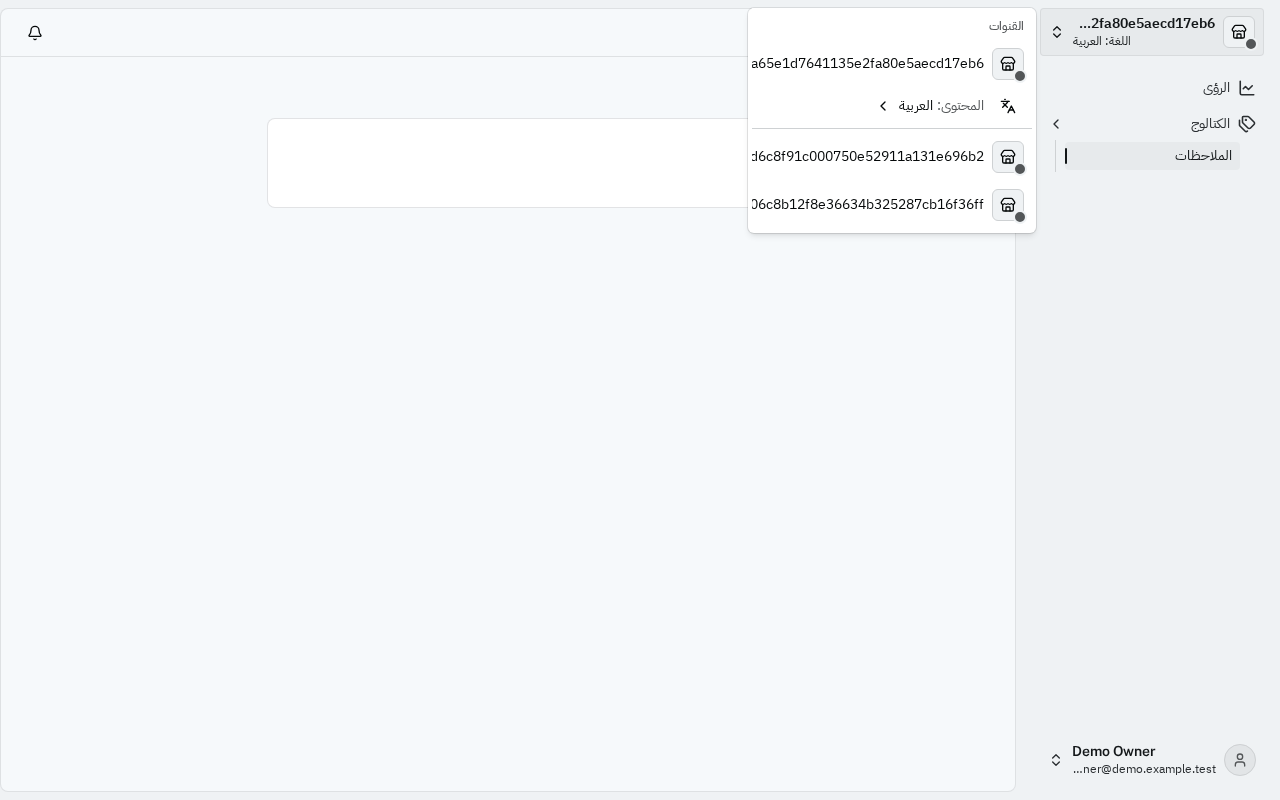
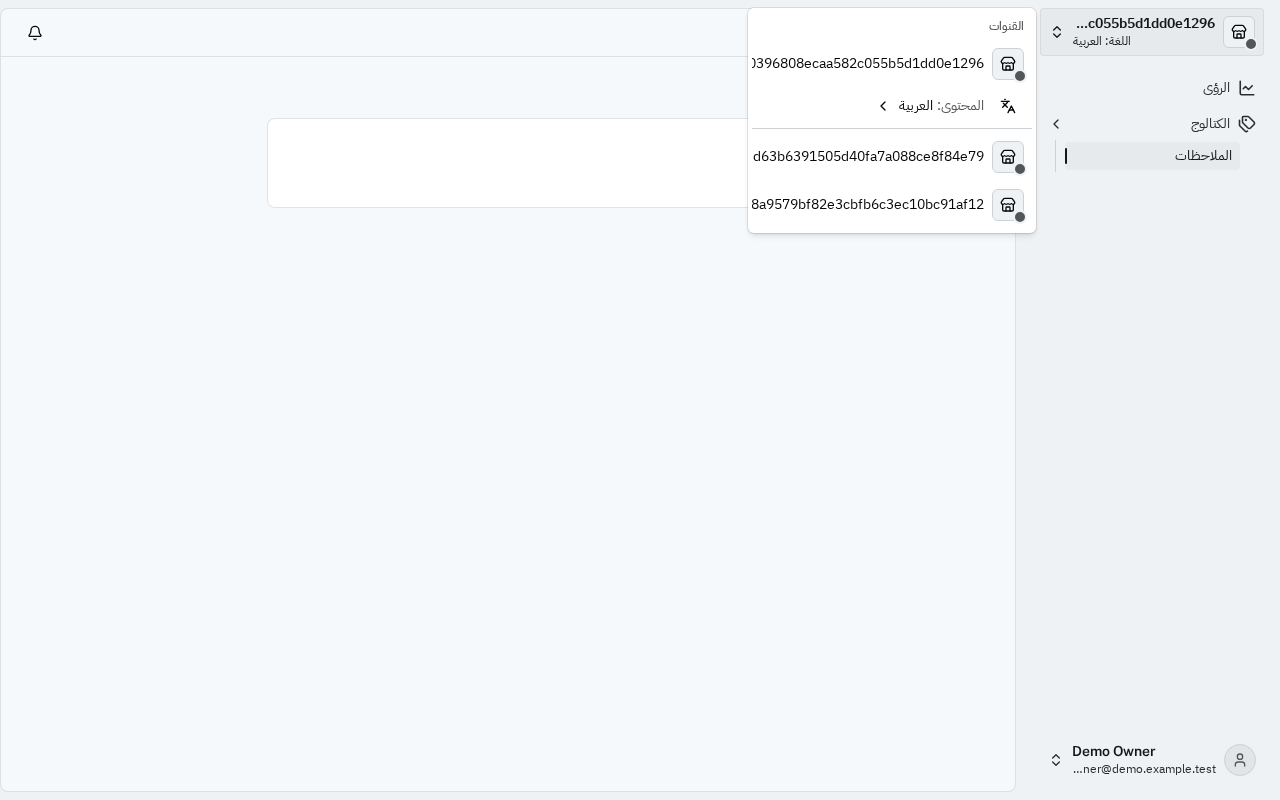
chore(tenancy): regenerate evidence from a full image build

diff --git a/docs/evidence/P1.S1/README.md b/docs/evidence/P1.S1/README.md
@@ -2,7 +2,7 @@
 
 Transcripts and screenshots from a live stack (CLAUDE.md §3a.14), produced by `scripts/evidence/P1.S1.sh`. Data is synthetic
 (demo seed, placeholders from `.env.example`). Image built from a tree with no uncommitted change outside the evidence
-folders, last image-relevant commit `833fada845a545540a486ed31800e40865efdd1f`. Compose project `cod-evidence`, with a second api container on port 23101.
+folders, last image-relevant commit `4886c38e29da1a17d51a73550f232b970bfcb23a`. Compose project `cod-evidence`, with a second api container on port 23101.
 The demo seed ran twice; the second run created nothing.
 
 ## API transcripts
@@ -58,5 +58,7 @@ Dashboard, signed in as the demo owner on the Arabic store:
 | `dashboard-content-language-ar-desktop.png` | Switcher open in Arabic: content language row reads "المحتوى: العربية", which is the D7 result. **Flags:** three channels listed by hex code, cut off at the menu's left edge; the third is the store archived earlier in this run, so an archived store stays in the owner's switcher. |
 
 No error, alert or toast on any dashboard shot. No third-party name on any of these shots. The dashboard's login page, which carries the licence-required footer (ADR 0001), is not among them. The notes bodies "evidence" are the synthetic data of the script, not an untranslated UI string.
+
+The hex channel code and the archived store in the switcher are deferred to P1.S5, which owns the switcher.
 
 Outside the shots, on a host-run api with the same owner: the landing page (Insights, an empty widget message in Arabic) and the merchant shell render with no alert or toast. The only refused query after sign-in is the dashboard's own `channels` (A1), which falls back to the owner's channels from `me`.

diff --git a/docs/evidence/P1.S1/api/resolve.md b/docs/evidence/P1.S1/api/resolve.md
@@ -1,6 +1,6 @@
 # Store resolution (public REST)
 
-What the storefront asks on each request. Only public fields leave; an unknown host is a <ADMIN_C_ID>0<ADMIN_C_ID>, never a 500.
+What the storefront asks on each request. Only public fields leave; an unknown host is a 404, never a 500.
 
 ### resolve demo.localhost
 
@@ -45,13 +45,13 @@ content-type: application/json; charset=utf-8
 ```http
 GET http://127.0.0.1:23100/store/resolve?host=nope.localhost
 
-HTTP/1.1 <ADMIN_C_ID>0<ADMIN_C_ID> Not Found
+HTTP/1.1 404 Not Found
 content-type: application/json; charset=utf-8
 
 {
-  "statusCode": <ADMIN_C_ID>0<ADMIN_C_ID>,
+  "statusCode": 404,
   "message": "Not Found",
-  "timestamp": "2026-11-08T23:0<ADMIN_C_ID>:13.929Z",
+  "timestamp": "2026-11-08T23:33:09.992Z",
   "path": "/store/resolve?host=nope.localhost"
 }
 ```
@@ -80,13 +80,13 @@ content-type: application/json; charset=utf-8
 ```http
 GET http://127.0.0.1:23100/store/by-id/1
 
-HTTP/1.1 <ADMIN_C_ID>0<ADMIN_C_ID> Not Found
+HTTP/1.1 404 Not Found
 content-type: application/json; charset=utf-8
 
 {
-  "statusCode": <ADMIN_C_ID>0<ADMIN_C_ID>,
+  "statusCode": 404,
   "message": "Not Found",
-  "timestamp": "2026-11-08T23:0<ADMIN_C_ID>:1<ADMIN_C_ID>.059Z",
+  "timestamp": "2026-11-08T23:33:10.170Z",
   "path": "/store/by-id/1"
 }
 ```

diff --git a/docs/evidence/P1.S1/api/subdomain-change.md b/docs/evidence/P1.S1/api/subdomain-change.md
@@ -76,13 +76,13 @@ content-type: application/json; charset=utf-8
 ```http
 GET http://127.0.0.1:23100/store/resolve?host=demo2.localhost
 
-HTTP/1.1 <ADMIN_C_ID>0<ADMIN_C_ID> Not Found
+HTTP/1.1 404 Not Found
 content-type: application/json; charset=utf-8
 
 {
-  "statusCode": <ADMIN_C_ID>0<ADMIN_C_ID>,
+  "statusCode": 404,
   "message": "Not Found",
-  "timestamp": "2026-11-08T23:0<ADMIN_C_ID>:17.280Z",
+  "timestamp": "2026-11-08T23:33:13.228Z",
   "path": "/store/resolve?host=demo2.localhost"
 }
 ```
@@ -111,13 +111,13 @@ content-type: application/json; charset=utf-8
 ```http
 GET http://127.0.0.1:23101/store/resolve?host=demo2.localhost
 
-HTTP/1.1 <ADMIN_C_ID>0<ADMIN_C_ID> Not Found
+HTTP/1.1 404 Not Found
 content-type: application/json; charset=utf-8
 
 {
-  "statusCode": <ADMIN_C_ID>0<ADMIN_C_ID>,
+  "statusCode": 404,
   "message": "Not Found",
-  "timestamp": "2026-11-08T23:0<ADMIN_C_ID>:17.<ADMIN_C_ID>35Z",
+  "timestamp": "2026-11-08T23:33:13.381Z",
   "path": "/store/resolve?host=demo2.localhost"
 }
 ```

diff --git a/docs/evidence/P1.S1/api/stores.md b/docs/evidence/P1.S1/api/stores.md
@@ -157,7 +157,7 @@ content-type: application/json; charset=utf-8
       "locations": [
         {
           "line": 1,
-          "column": <ADMIN_C_ID>0
+          "column": 40
         }
       ],
       "path": [
@@ -247,13 +247,13 @@ content-type: application/json; charset=utf-8
 ```http
 GET http://127.0.0.1:23100/store/resolve?host=demo3.localhost
 
-HTTP/1.1 <ADMIN_C_ID>0<ADMIN_C_ID> Not Found
+HTTP/1.1 404 Not Found
 content-type: application/json; charset=utf-8
 
 {
-  "statusCode": <ADMIN_C_ID>0<ADMIN_C_ID>,
+  "statusCode": 404,
   "message": "Not Found",
-  "timestamp": "2026-11-08T23:0<ADMIN_C_ID>:12.893Z",
+  "timestamp": "2026-11-08T23:33:09.114Z",
   "path": "/store/resolve?host=demo3.localhost"
 }
 ```

diff --git a/scripts/evidence/P1.S1-seen.md b/scripts/evidence/P1.S1-seen.md
@@ -13,4 +13,6 @@
 
 No error, alert or toast on any dashboard shot. No third-party name on any of these shots. The dashboard's login page, which carries the licence-required footer (ADR 0001), is not among them. The notes bodies "evidence" are the synthetic data of the script, not an untranslated UI string.
 
+The hex channel code and the archived store in the switcher are deferred to P1.S5, which owns the switcher.
+
 Outside the shots, on a host-run api with the same owner: the landing page (Insights, an empty widget message in Arabic) and the merchant shell render with no alert or toast. The only refused query after sign-in is the dashboard's own `channels` (A1), which falls back to the owner's channels from `me`.

diff --git a/docs/evidence/P1.S1/api/isolation.md b/docs/evidence/P1.S1/api/isolation.md
@@ -83,7 +83,7 @@ content-type: application/json; charset=utf-8
       "locations": [
         {
           "line": 1,
-          "column": 5<ADMIN_C_ID>
+          "column": 54
         }
       ],
       "path": [
@@ -166,7 +166,7 @@ content-type: application/json; charset=utf-8
       "locations": [
         {
           "line": 1,
-          "column": <ADMIN_C_ID>8
+          "column": 48
         }
       ],
       "path": [

diff --git a/docs/evidence/P1.S1/api/forbidden.md b/docs/evidence/P1.S1/api/forbidden.md
@@ -119,7 +119,7 @@ content-type: application/json; charset=utf-8
       "locations": [
         {
           "line": 1,
-          "column": <ADMIN_C_ID>6
+          "column": 46
         }
       ],
       "path": [
